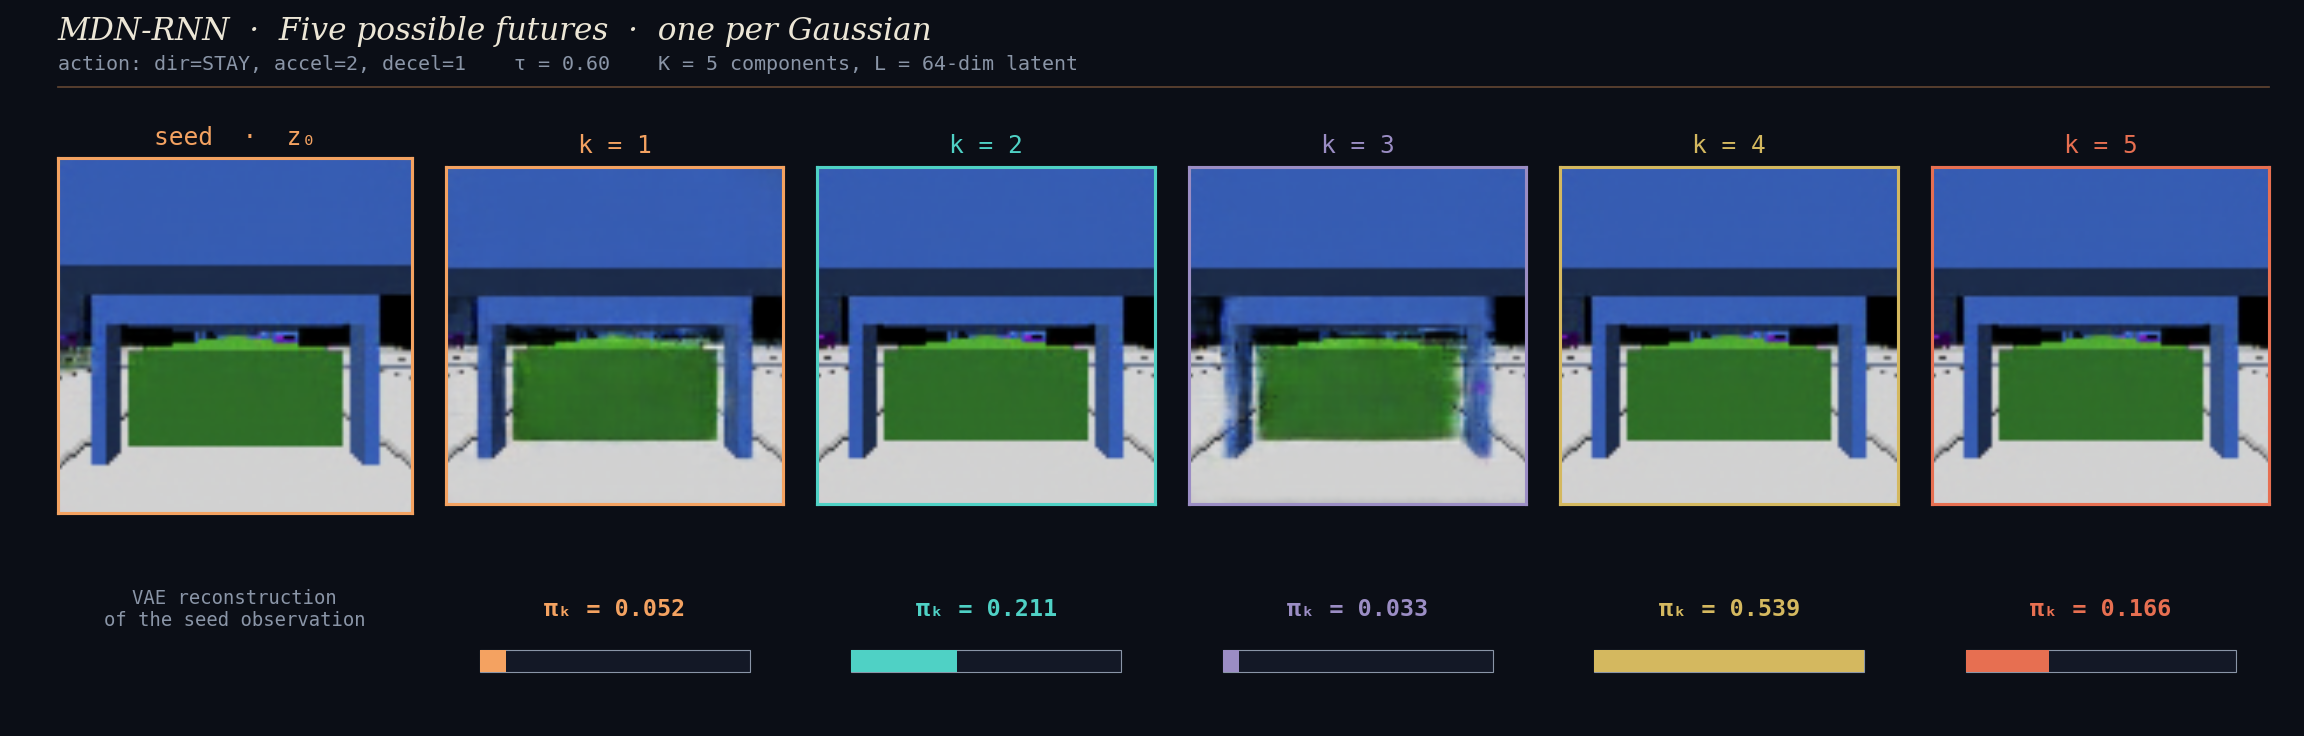
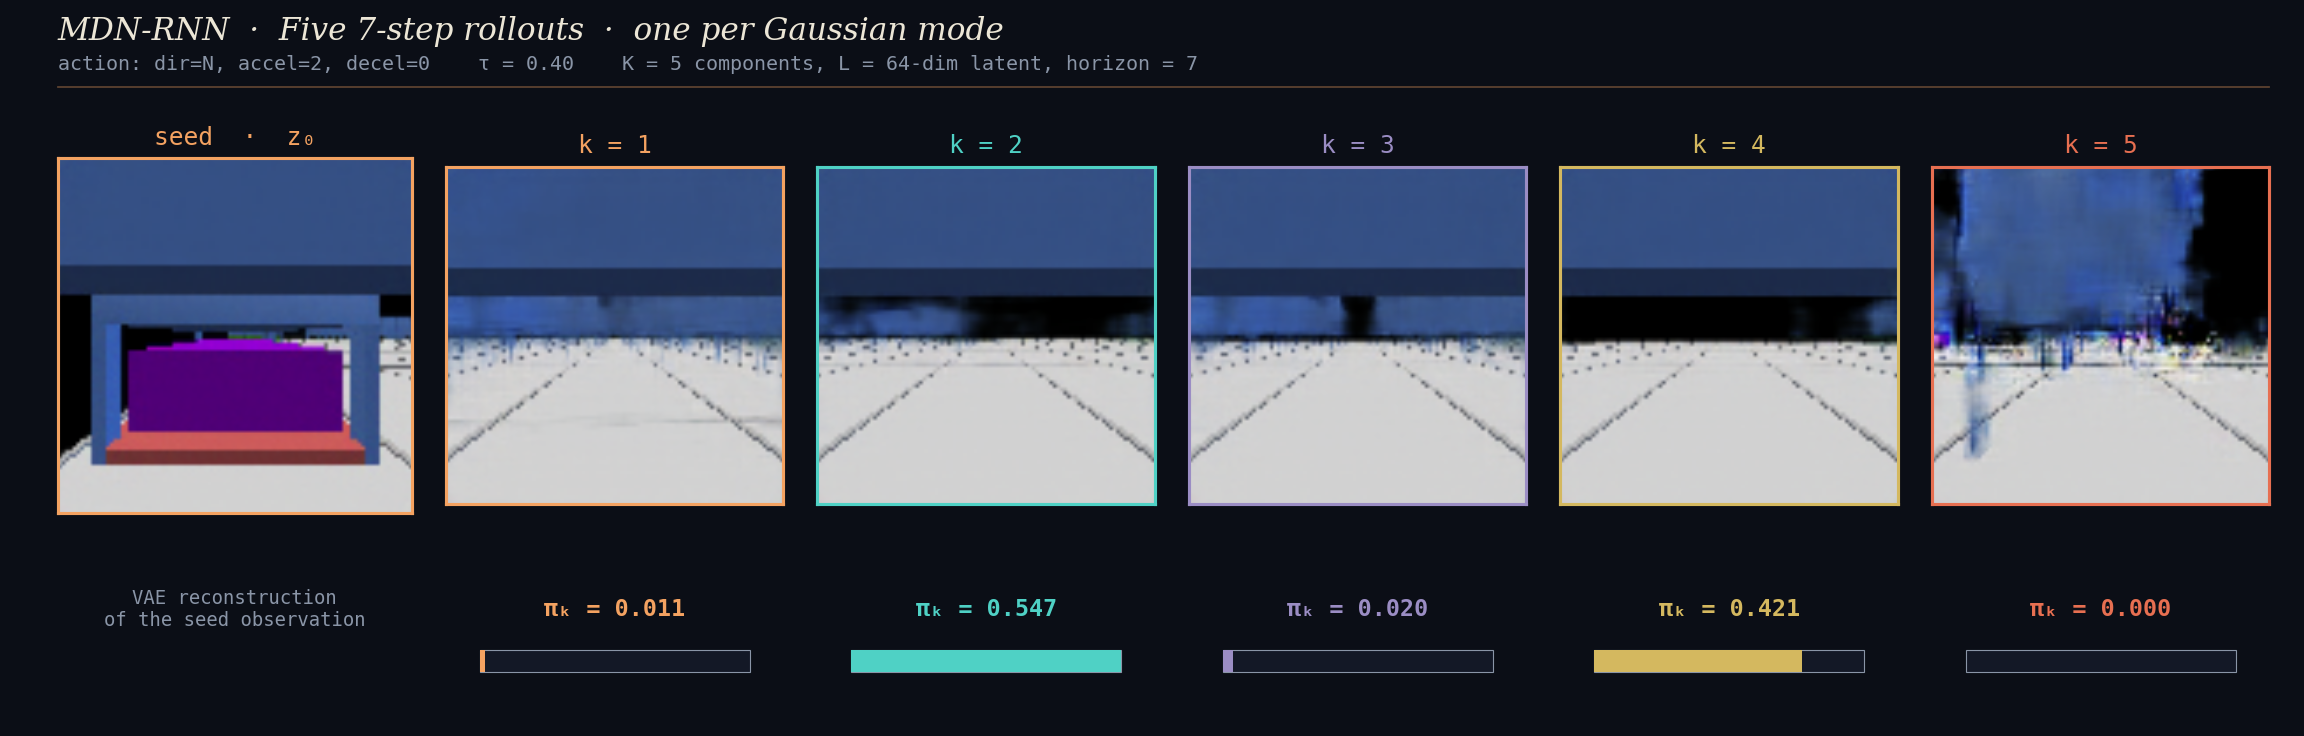
feat: update asset possible futures from mdn rnn

diff --git a/index.html b/index.html
@@ -2590,19 +2590,20 @@ table.lab tr.row-accent td {
         <!-- ================================================================
              GMM 5-futures visualisation — generated by
              scripts/visualize_gmm_futures.py from the trained VAE + MDN-RNN.
-             Each panel = a sample from ONE Gaussian component (no mixing).
+             Each panel = a 7-step dream rollout pinned to ONE Gaussian mode,
+             so the modes' inherent divergence becomes visible.
              ================================================================ -->
         <div class="reveal" style="margin-top:clamp(0.5rem,1.2vw,0.9rem);">
             <div class="media-frame" style="padding:clamp(0.3rem,0.7vw,0.5rem); background:var(--bg-code);">
-                <span class="media-label">Live inference · seed → 5 component-specific futures</span>
+                <span class="media-label">Live inference · 5 mode-pinned 7-step rollouts (bot 15, mid-warehouse seed)</span>
                 <img src="assets/gmm_futures.png"
-                     alt="MDN-RNN GMM five possible futures: seed frame and one decoded sample per Gaussian component, with mixture weights"
+                     alt="MDN-RNN GMM five possible futures: seed frame and one 7-step rollout per Gaussian mode, with mixture weights"
                      style="max-height:min(28vh,260px); width:100%; object-fit:contain;" />
             </div>
         </div>
 
         <div class="takeaway reveal">
-            One seed → <b>five</b> imagined next-latents, each weighted by π<sub>k</sub>. CMA-ES averages these in dream rollouts to score policies — <b>no real environment touched.</b>
+            One seed → <b>five</b> imagined trajectories, each pinned to a different Gaussian mode and weighted by π<sub>k</sub>. After 7 dream steps, the modes diverge into <b>visibly different futures</b> — the model has genuinely multimodal dynamics.
         </div>
     </div>
 </section>
